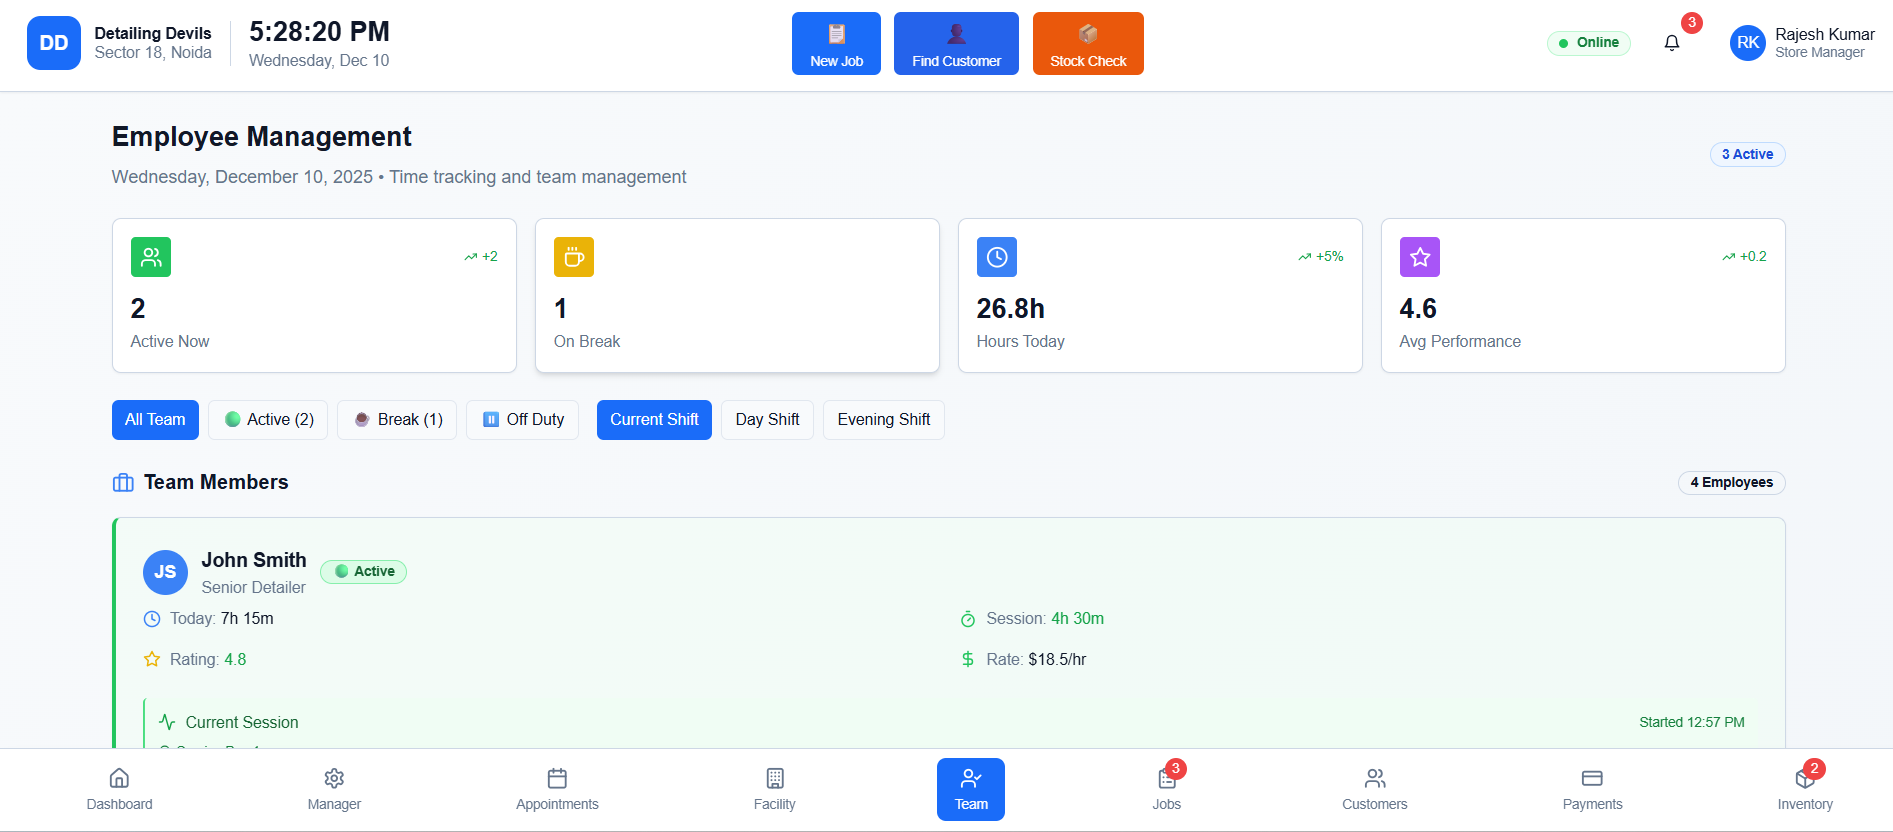
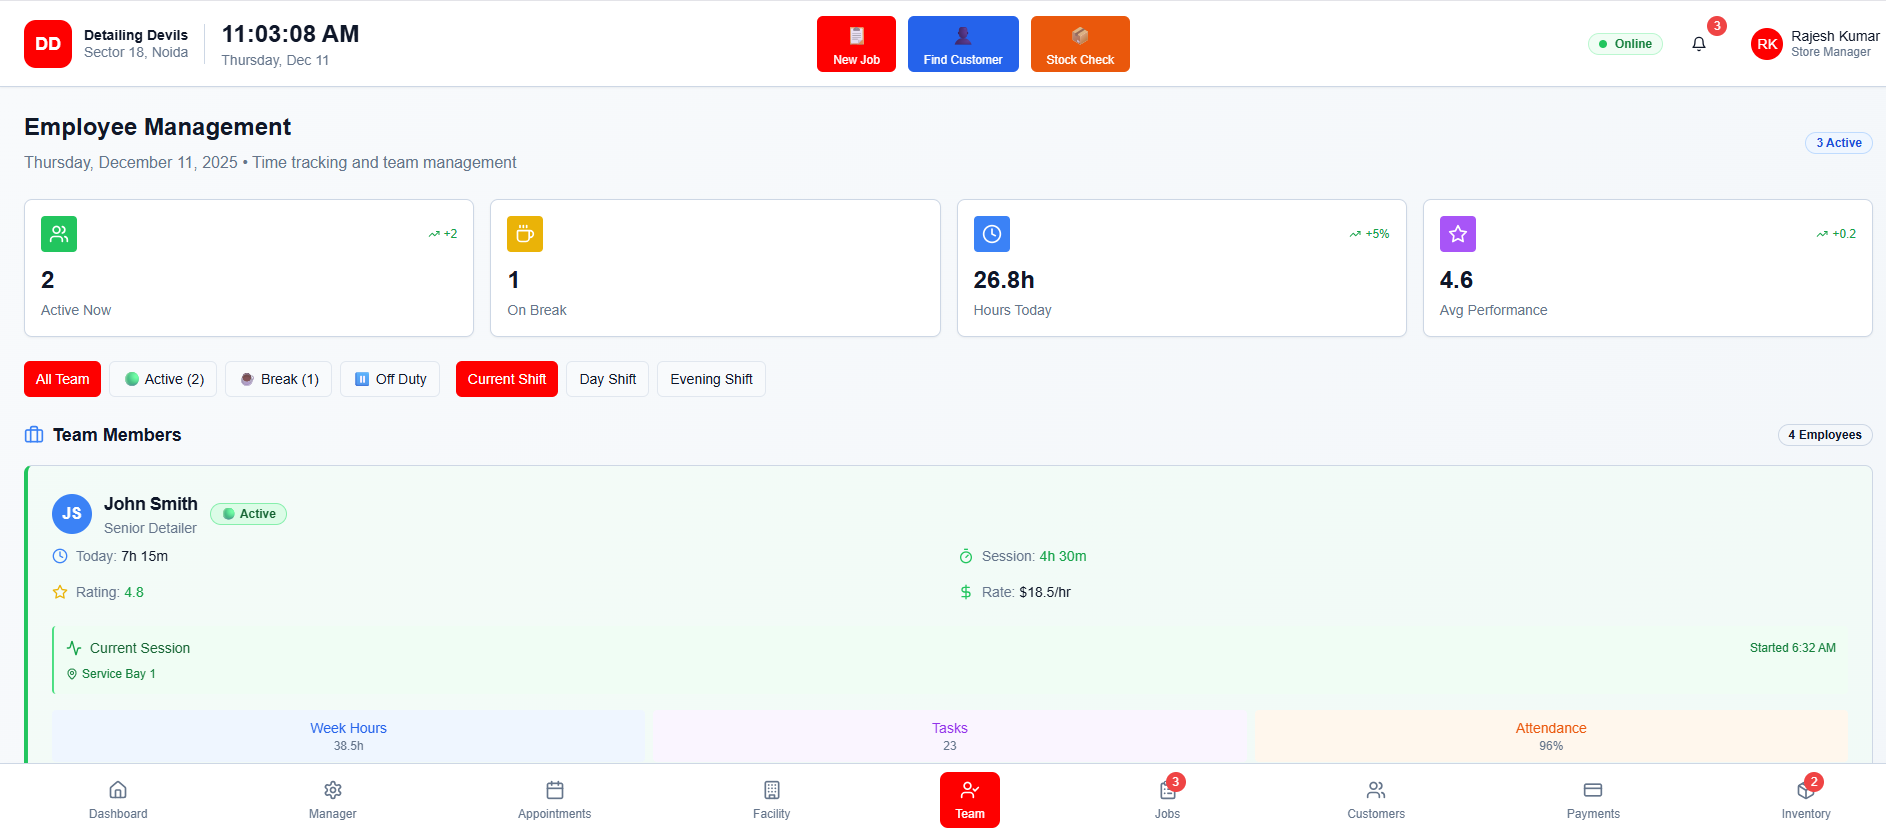
optimise the styling

diff --git a/client/src/pages/login.tsx b/client/src/pages/login.tsx
@@ -79,7 +79,7 @@ export default function LoginPage() {
       className="w-full h-screen"  // <-- this makes HStack full height
     >        {/* LEFT: stacked images area */}
           <Box
-            w={{ base: "100%", md: "60%" }}
+            w={{ base: "100%", md: "65%" }}
             display="flex"
             justifyContent="center"
             alignItems="center"
@@ -87,7 +87,7 @@ export default function LoginPage() {
             style={{ borderRight: "1px solid rgba(226,232,240,0.8)" }}
           >
             {/* background / bottom image (full area) */}
-            <div className="w-full h-full relative overflow-hidden bg-[#eff6ff]">
+            <div className="w-full h-full relative overflow-hidden bg-[#fff2f2]">
                  <div
                 style={{
                   position: "absolute",
@@ -137,7 +137,7 @@ export default function LoginPage() {
 
           {/* RIGHT: login form (on small screens this is full width) */}
           <Box
-            w={{ base: "100%", md: "40%" }}
+            w={{ base: "100%", md: "35%" }}
             display="flex"
             justifyContent="center"
             alignItems="center"
@@ -223,9 +223,22 @@ export default function LoginPage() {
                      
 
                       <div>
-                        <Button type="submit" className="w-full bg-[#FE0000] border border-[#000] stroke-logo" data-testid="button-login">
-                          <p>Login</p>
-                        </Button>
+                      <Button
+  type="submit"
+  className="
+    w-full 
+    bg-[#FE0000] 
+    border border-[#000] 
+    stroke-logo
+    hover:bg-[rgb(238,6,6)]      /* hover effect */
+    hover:border-black        /* optional — keeps border strong */
+    transition-all duration-200
+  "
+  data-testid="button-login"
+>
+  <p>Login</p>
+</Button>
+
                       </div>
                     </form>
                   </Form>

diff --git a/client/src/index.css b/client/src/index.css
@@ -10,13 +10,13 @@
   --card-foreground: hsl(222, 47%, 11%);
   --popover: hsl(0, 0%, 100%);
   --popover-foreground: hsl(222, 47%, 11%);
-  --primary: hsl(218, 95%, 54%);
+  --primary: #FE0000;
   --primary-foreground: hsl(0, 0%, 100%);
   --secondary: hsl(210, 40%, 96%);
   --secondary-foreground: hsl(222, 47%, 11%);
   --muted: hsl(214, 32%, 91%);
   --muted-foreground: hsl(215, 16%, 47%);
-  --accent: hsl(217, 91%, 60%);
+  --accent: #ffc9c9;
   --accent-foreground: hsl(0, 0%, 100%);
   --destructive: hsl(0, 84%, 60%);
   --destructive-foreground: hsl(0, 0%, 100%);

diff --git a/client/src/pages/facility-management.tsx b/client/src/pages/facility-management.tsx
@@ -401,7 +401,7 @@ export default function FacilityManagement() {
   return (
     <>
       <div className="min-h-screen bg-gradient-to-br from-slate-50 to-slate-100 dark:from-slate-900 dark:to-slate-800">
-        <div className="container mx-auto p-6">
+        <div className="  p-6">
           
           {/* Header */}
           <div className="mb-6">

diff --git a/client/src/pages/employee-management.tsx b/client/src/pages/employee-management.tsx
@@ -374,7 +374,7 @@ export default function EmployeeManagement() {
   return (
     <>
       <div className="min-h-screen bg-gradient-to-br from-slate-50 to-slate-100 dark:from-slate-900 dark:to-slate-800">
-        <div className="container mx-auto p-6">
+        <div className=" p-6">
           
           {/* Header */}
           <div className="mb-6">
